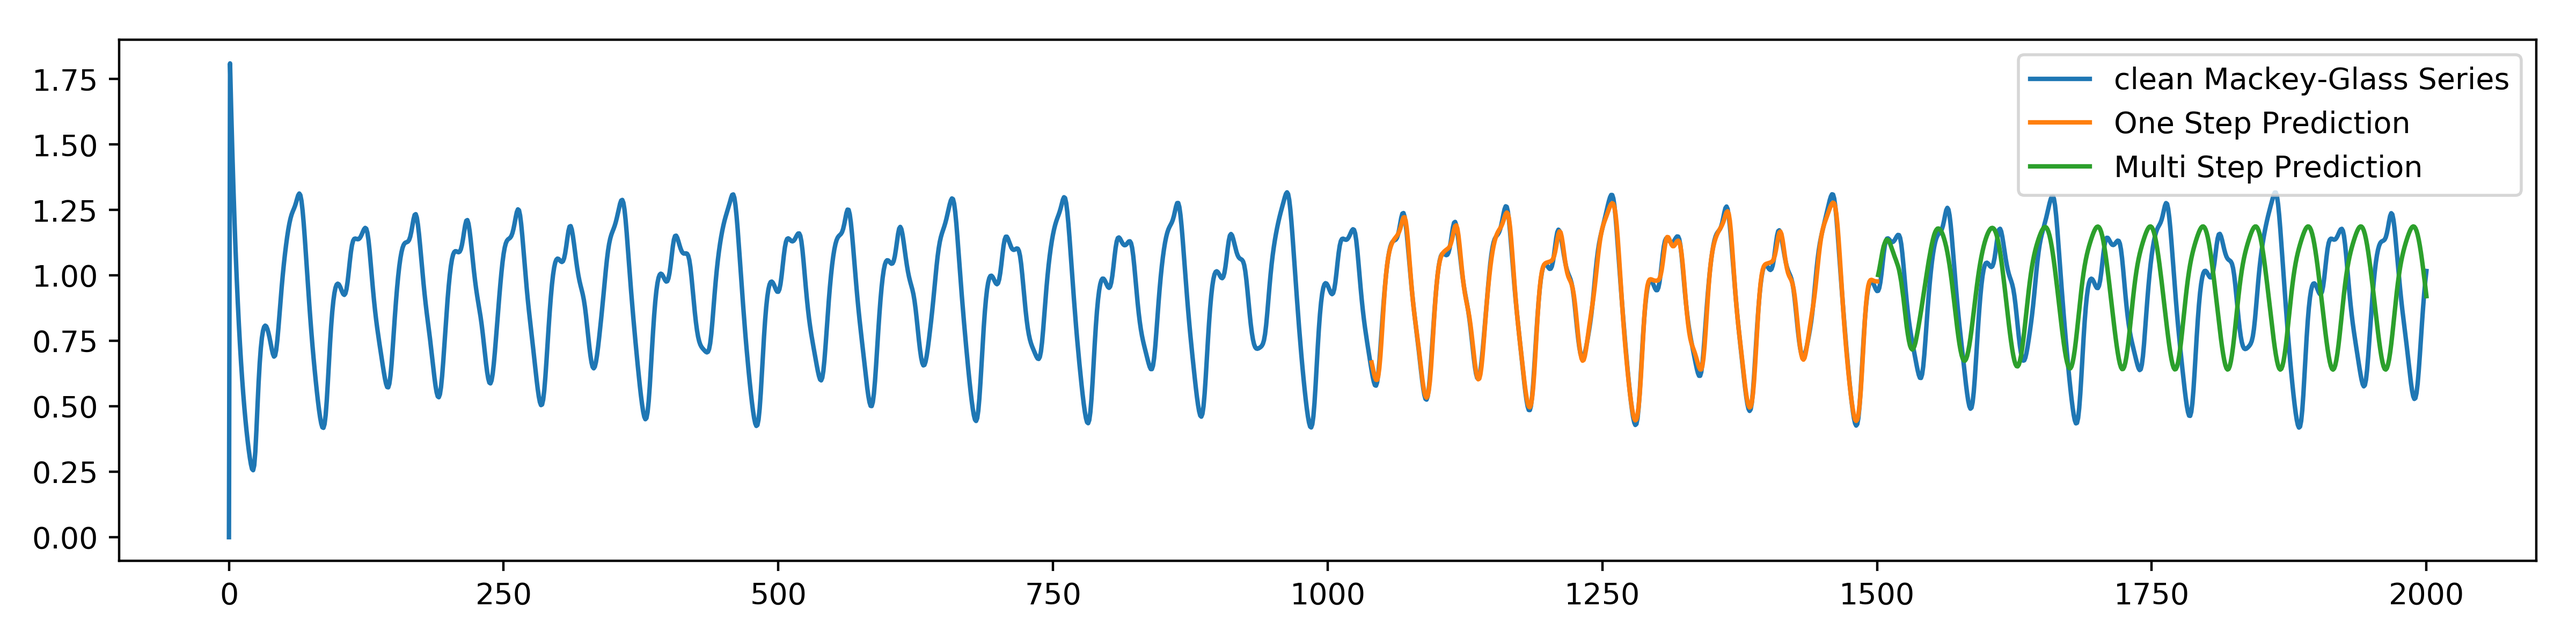
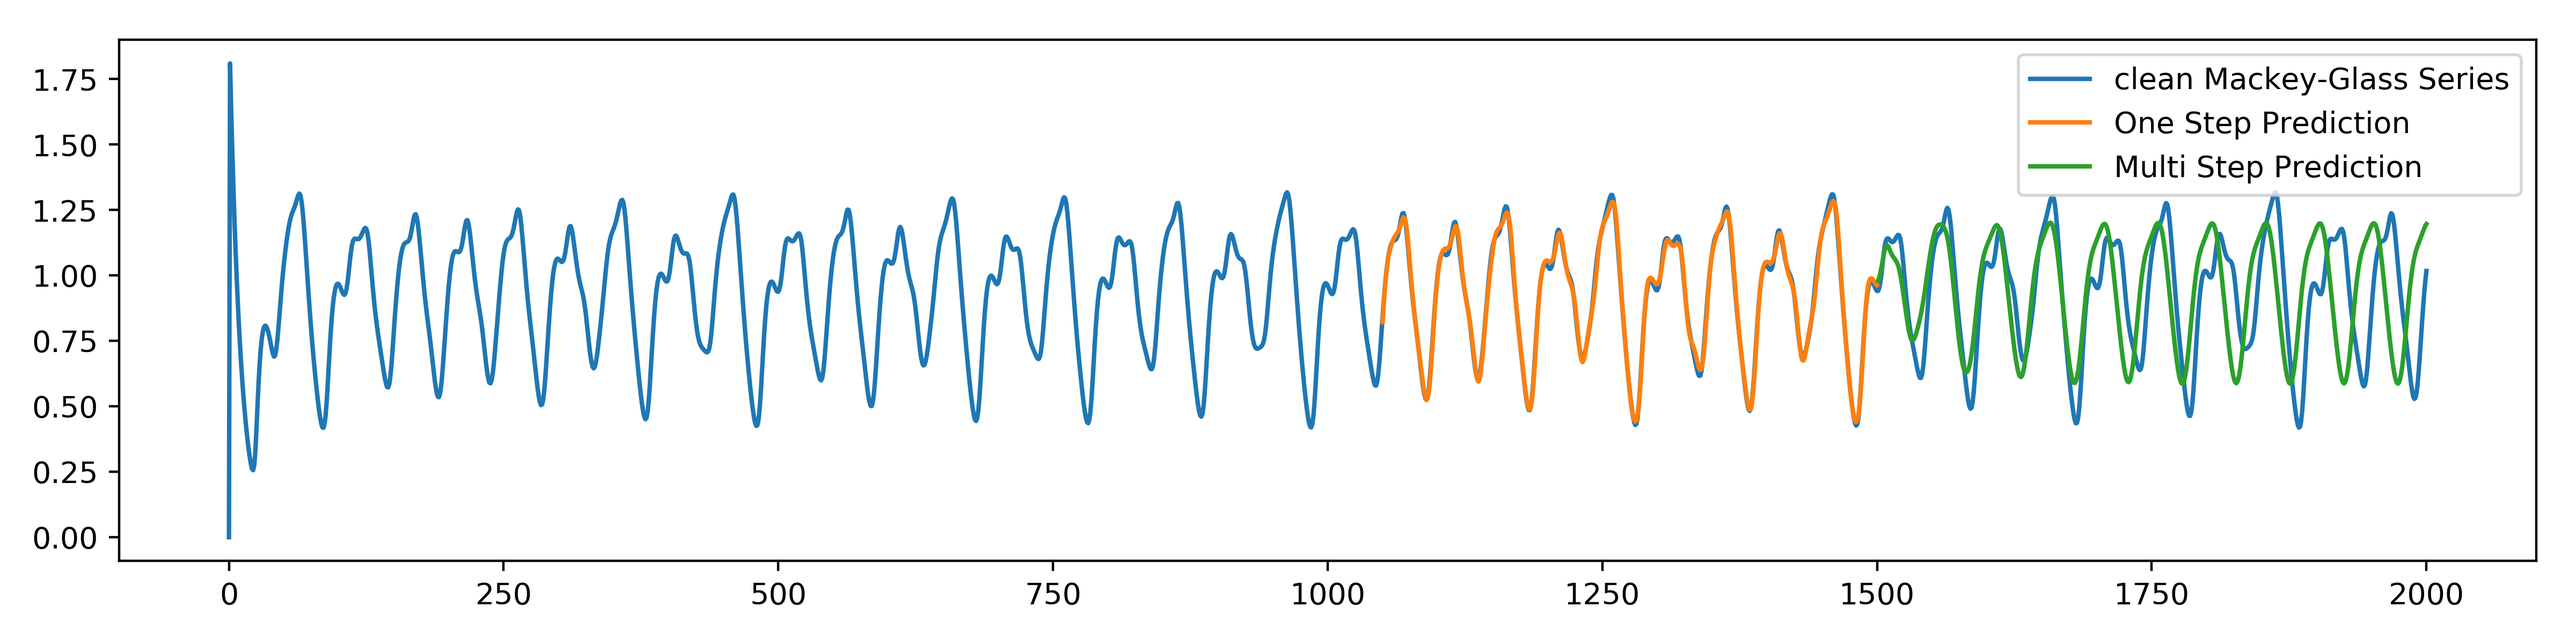
.

Changed region(s): [[0.7188, 0.3392, 0.9375, 0.5858], [0.5312, 0.555, 0.5625, 0.5858]]

diff --git a/testARModel.py b/testARModel.py
@@ -5,7 +5,7 @@ from KalmanFilters import AutoRegressiveModel
 t,b = np.loadtxt('mgdata.txt',delimiter=',')[::10].T
 dt = np.mean(np.diff(t))
 
-K = 40
+K = 50
 S = int(0.5 * len(b))
 E = -int(0.25 * len(b))
 ar = AutoRegressiveModel(K, num_units=64, eps=1e-3)
